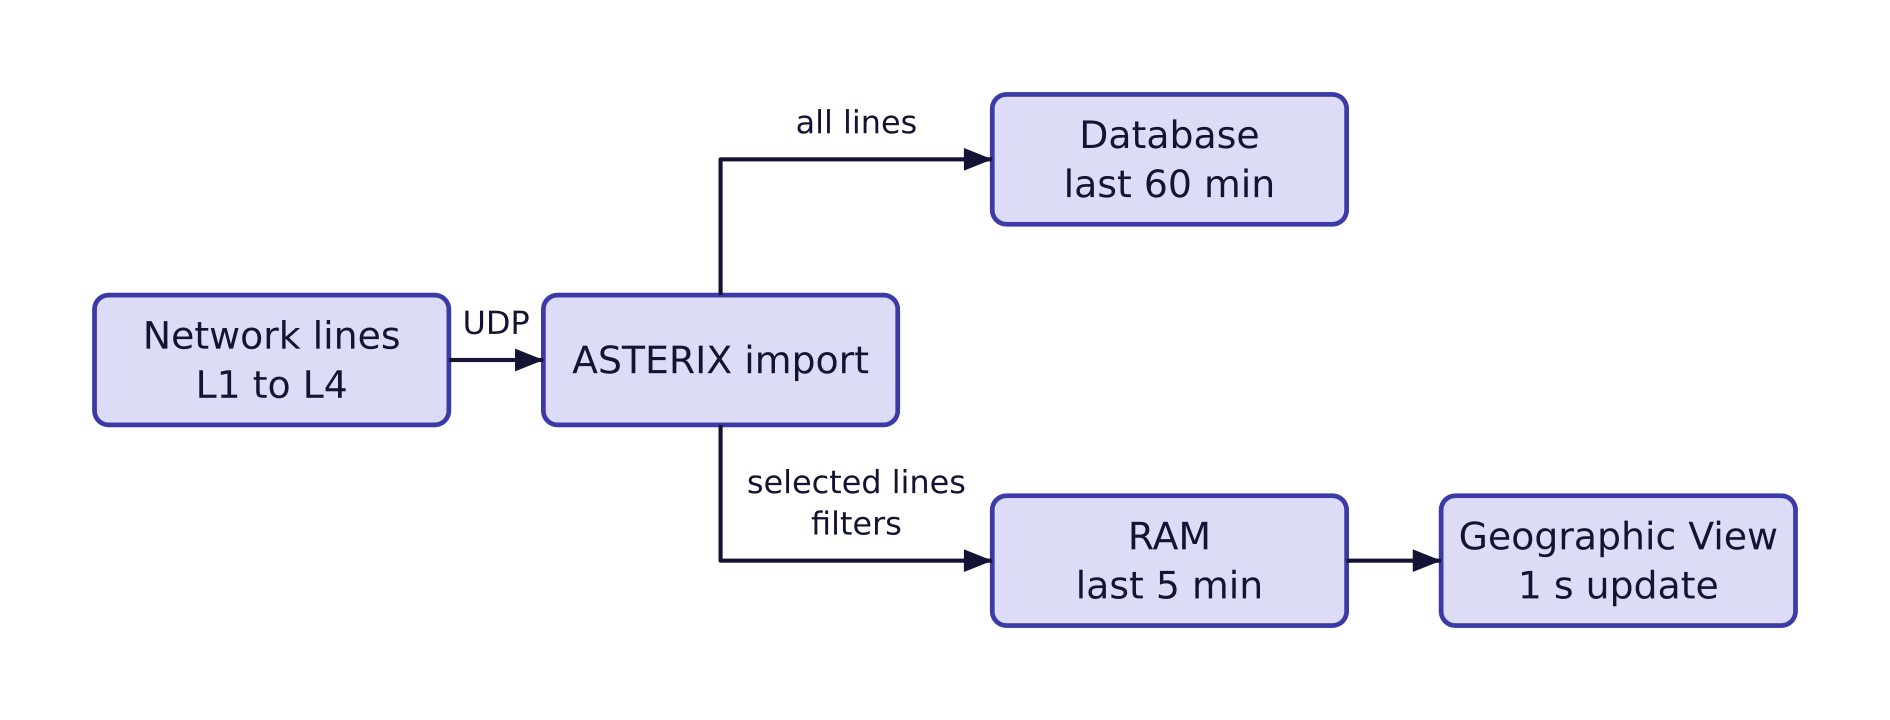
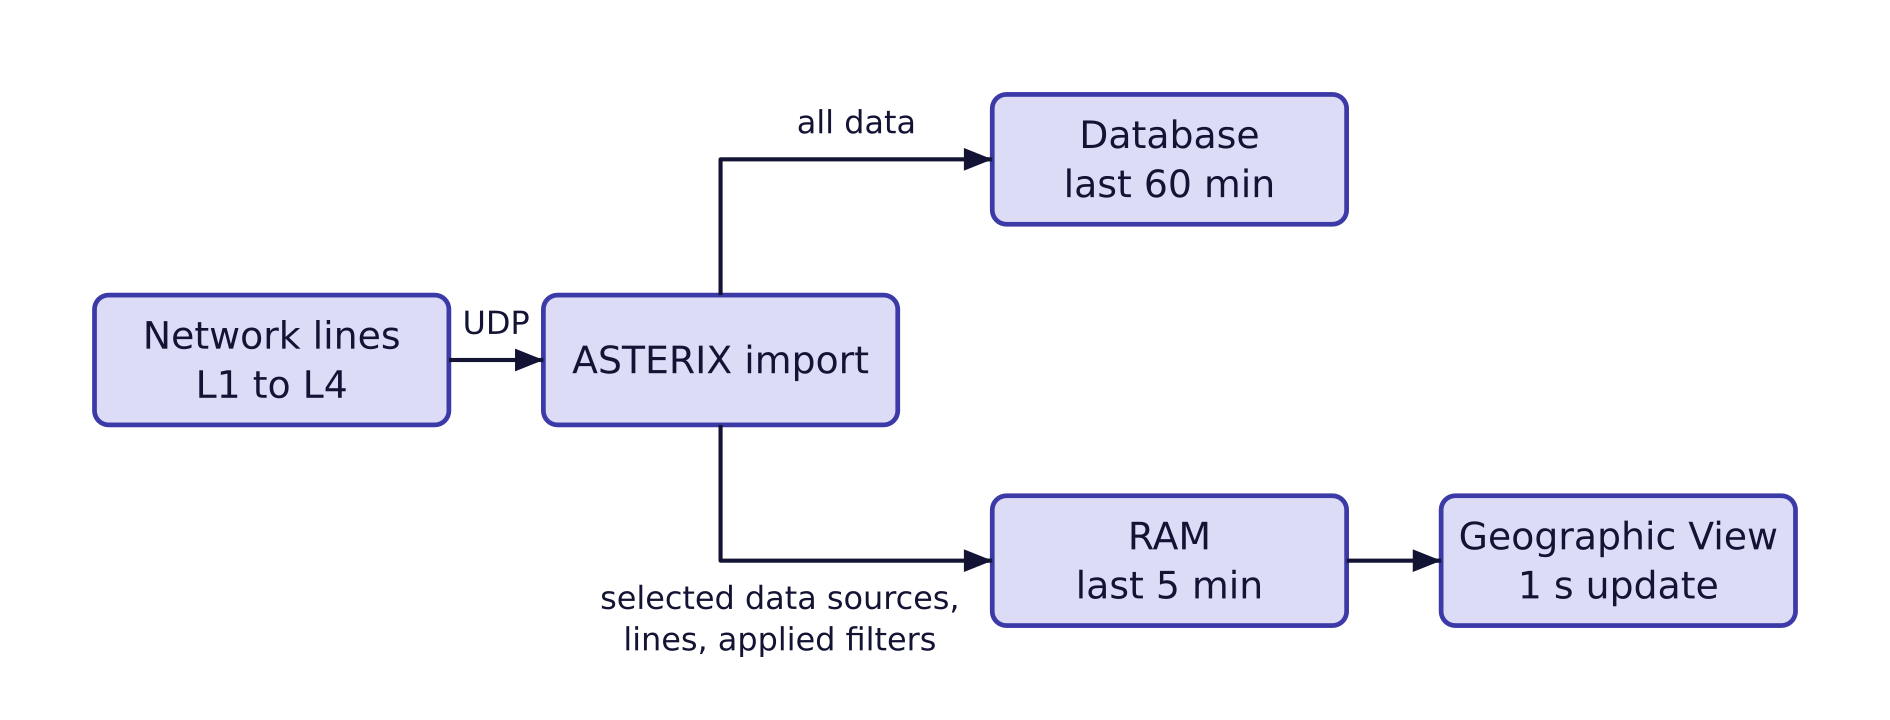
diagrams up

Changed region(s): [[0.3122, 0.7944, 0.4995, 0.9167], [0.4058, 0.6417, 0.4995, 0.7639], [0.4058, 0.1528, 0.4995, 0.1833]]

diff --git a/doc/user_manual/diagrams/live_mode.py b/doc/user_manual/diagrams/live_mode.py
@@ -55,9 +55,13 @@ def flow():
     d.block("ram", 2, 2, "RAM\nlast 5 min")
     d.block("geo", 3, 2, "Geographic View\n1 s update")
     d.arrow("net", "imp", "UDP")
-    d.arrow("imp", "db", "all lines", route="vh")
-    d.arrow("imp", "ram", "selected lines\nfilters", route="vh")
+    d.arrow("imp", "db", "all data", route="vh")
+    d.arrow("imp", "ram", route="vh")
     d.arrow("ram", "geo")
+    # the label is too wide for the arrow's horizontal run (23 mm), so it is
+    # set as a note just below that run, clear of the vertical segment and of
+    # the RAM block
+    d.note(1.132, 2.288, "selected data sources,\nlines, applied filters")
     return d, "live_flow"
 
 
